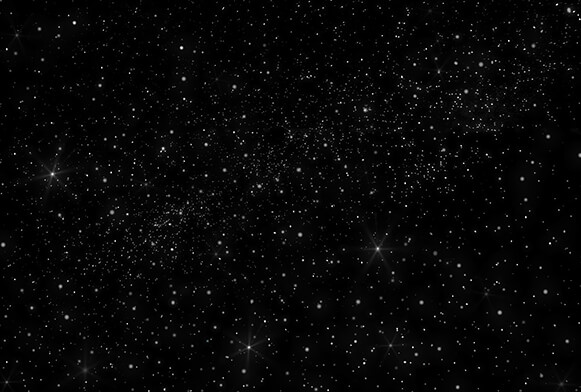
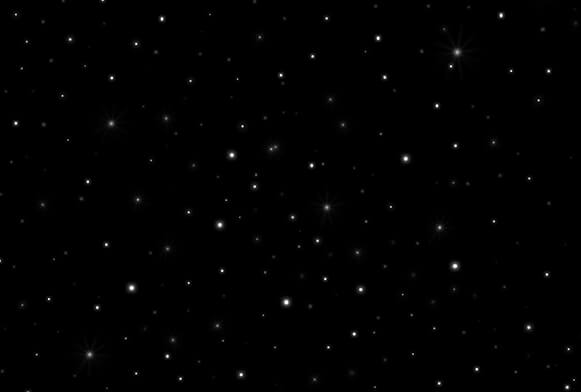
fixed hydration error.

diff --git a/clientProvider/provider.tsx b/clientProvider/provider.tsx
@@ -3,28 +3,23 @@
 import { cn } from "@/lib/utils";
 import { useWeatherBackground } from "@/store/store";
 import Image from "next/image";
-import React, { useEffect, useState } from "react";
+import React from "react";
 
 export default function BackgroundProvider({
   children,
 }: {
-  children: Readonly<React.ReactNode>;
+  children: React.ReactNode;
 }) {
   const { background } = useWeatherBackground();
 
-  const weatherBgConditions = {
-    "bg-gradient-to-tr from-blue-500 to-yellow-500": background.time === "day",
-    "bg-gradient-to-tr from-[#222223] to-[#3D3E40]":
-      background.time === "night",
-  };
-
-  const weather = [
+  const weatherCondition = [
     {
       icon_name: {
         day: "11d",
         night: "11n",
       },
       name: "thunderstorm",
+      image_url: "/thunderstorm.gif",
       icon_url: {
         day: "https://openweathermap.org/img/wn/11d@2x.png",
         night: "https://openweathermap.org/img/wn/11n@2x.png",
@@ -36,6 +31,7 @@ export default function BackgroundProvider({
         night: "09n",
       },
       name: "drizzle",
+      image_url: "/drizzle.gif",
       icon_url: {
         day: "https://openweathermap.org/img/wn/09d@2x.png",
         night: "https://openweathermap.org/img/wn/09n@2x.png",
@@ -47,6 +43,7 @@ export default function BackgroundProvider({
         night: "10n",
       },
       name: "Rain",
+      image_url: "/rainy_1.gif",
       icon_url: {
         day: "https://openweathermap.org/img/wn/10d@2x.png",
         night: "https://openweathermap.org/img/wn/10n@2x.png",
@@ -58,6 +55,7 @@ export default function BackgroundProvider({
         night: "13n",
       },
       name: "Snow",
+      image_url: "/snowfall.gif",
       icon_url: {
         day: "https://openweathermap.org/img/wn/13d@2x.png",
         night: "https://openweathermap.org/img/wn/13n@2x.png",
@@ -68,7 +66,8 @@ export default function BackgroundProvider({
         day: "50d",
         night: "50n",
       },
-      name: "Snow",
+      name: "atmosphere",
+      image_url: "/atmosphere.png",
       icon_url: {
         day: "https://openweathermap.org/img/wn/50d@2x.png",
         night: "https://openweathermap.org/img/wn/50n@2x.png",
@@ -79,7 +78,8 @@ export default function BackgroundProvider({
         day: "01d",
         night: "01n",
       },
-      name: "Snow",
+      name: "clear sky",
+      image_url: "/stars.jpg",
       icon_url: {
         day: "https://openweathermap.org/img/wn/01d@2x.png",
         night: "https://openweathermap.org/img/wn/01n@2x.png",
@@ -91,6 +91,7 @@ export default function BackgroundProvider({
         night: "02n",
       },
       name: "few clouds",
+      image_url: "/few_clouds.jpg",
       icon_url: {
         day: "https://openweathermap.org/img/wn/02d@2x.png",
         night: "https://openweathermap.org/img/wn/02n@2x.png",
@@ -101,7 +102,8 @@ export default function BackgroundProvider({
         day: "03d",
         night: "03n",
       },
-      name: "Scattered clouds",
+      name: "scattered clouds",
+      image_url: "/scattered_clouds.jpg",
       icon_url: {
         day: "https://openweathermap.org/img/wn/03d@2x.png",
         night: "https://openweathermap.org/img/wn/03n@2x.png",
@@ -113,6 +115,7 @@ export default function BackgroundProvider({
         night: "04n",
       },
       name: "broken clouds",
+      image_url: "/broken_clouds.jpg",
       icon_url: {
         day: "https://openweathermap.org/img/wn/04d@2x.png",
         night: "https://openweathermap.org/img/wn/04n@2x.png",
@@ -124,6 +127,7 @@ export default function BackgroundProvider({
         night: "04n",
       },
       name: "overcast clouds",
+      image_url: "",
       icon_url: {
         day: "https://openweathermap.org/img/wn/04d@2x.png",
         night: "https://openweathermap.org/img/wn/04n@2x.png",
@@ -131,38 +135,35 @@ export default function BackgroundProvider({
     },
   ];
 
-  const [bg, setBg] = useState({
-    image: "",
-    bgcolor: "",
-  });
+  const selectedBg = weatherCondition.find(
+    ({ icon_name: { day, night } }) =>
+      background.icon_name === day || background.icon_name === night
+  );
 
-  /** <Image
-        src={"/stars.jpg"}
-        alt="background overlay"
-        className="absolute top-0 object-cover mix-blend-lighten"
-        fill
-      /> */
-
-  console.log("bg", bg);
   console.log("background", background);
+
   return (
     <div
-      className={cn("min-h-screen relative h-full w-full", {
-        "bg-gradient-to-tr from-[#222223] to-[#3D3E40]":
-          background.time === "night",
-        "bg-[#222223]": background.time === "day",
-        "bg-gradient-to-tr from-[#558BEE] to-[#E9F3FB]":
-          background.time === "day",
-      })}
+      className={cn(
+        "min-h-screen  relative h-full w-full bg-blend-soft-light",
+        {
+          "bg-gradient-to-tr from-[#222223] to-[#3D3E40]":
+            background.time === "night",
+          "bg-gradient-to-tr from-[#558BEE] to-[#E9F3FB]":
+            background.time === "day",
+        }
+      )}
     >
+      {/**OVERLAY BACKGROUND */}
       <Image
-        src={"/stars.jpg"}
+        src={selectedBg?.image_url || "/"}
         alt="background overlay"
-        className="absolute top-0 object-cover mix-blend-soft-light"
+        className="absolute z-0 select-none top-0 object-cover mix-blend-soft-light"
         fill
+        unoptimized
       />
-      <p className="text-green-600">Top</p>
-      {children}
+
+      <div className="relative z-10">{children}</div>
     </div>
   );
 }

diff --git a/actions/data.ts b/actions/data.ts
@@ -1,10 +1,8 @@
-"use cache";
+"use server";
 
 import { WeatherData } from "@/types/weather";
-import {
-  unstable_cacheLife as cacheLife,
-  unstable_cacheTag as cacheTag,
-} from "next/cache";
+import axios from "axios";
+import { revalidateTag } from "next/cache";
 
 export async function getMyWeatherData({
   lat,
@@ -16,27 +14,24 @@ export async function getMyWeatherData({
   const current_weather_api = process.env.CURRENT_WEATHER_BASE_URL as string;
   const API_KEY = process.env.API_KEY as string;
 
-  cacheLife("minutes");
-  cacheTag("localweatherdata");
-
   try {
-    const response = await fetch(
+    const response = await axios.get(
       current_weather_api +
         `lat=${lat}&lon=${lon}&appid=${API_KEY}&units=metric`
     );
 
-    if (!response.ok) {
+    if (!response.status) {
       return null;
     }
 
     console.log("RESPONSE FROM SERVER", response);
-    return (await response.json()) || [];
+    return (await response.data) || [];
   } catch (error) {
     console.log(error);
     return null;
   }
 }
 
-export async function getSeachedCityWeatherData(cityname: string) {
-  const geocoding_api = process.env.CURRENT_WEATHER_BASE_URL as string;
+export async function updateWeather() {
+  return revalidateTag("weatherData");
 }

diff --git a/store/store.ts b/store/store.ts
@@ -2,21 +2,40 @@ import { create } from "zustand";
 
 type backgroundStateTypes = {
   background: {
-    desription: string;
+    icon_name: string;
     time: string;
   };
   setBackground: (bg: string, time: string) => void;
 };
 
 const initialValue = {
-  desription: "clear sky",
-  time: "day",
+  icon_name: "",
+  time: "",
 };
 
 export const useWeatherBackground = create<backgroundStateTypes>((set) => {
   return {
     background: initialValue,
     setBackground: (bg, time) =>
-      set({ background: { desription: bg, time: time } }),
+      set({ background: { icon_name: bg, time: time } }),
+  };
+});
+
+type locationStatesType = {
+  location: {
+    latitude: number;
+    longitude: number;
+  };
+  setLocation: (location: { latitude: number; longitude: number }) => void;
+};
+
+const locationInitialValue = {
+  latitude: 0,
+  longitude: 0,
+};
+export const useLocation = create<locationStatesType>((set) => {
+  return {
+    location: locationInitialValue,
+    setLocation: (location) => set({ location }),
   };
 });

diff --git a/app/page.tsx b/app/page.tsx
@@ -1,10 +1,9 @@
-import { getMyWeatherData } from "@/actions/data";
 import MyWeatherInfo from "@/components/weather-mylocation";
 
-export default async function Home() {
+export default async function Page() {
   return (
-    <div className="w-full h-full">
-      <MyWeatherInfo getMyWeatherData={getMyWeatherData} />
+    <div className="w-full h-full py-10">
+      <MyWeatherInfo />
     </div>
   );
 }

diff --git a/components/search-input.tsx b/components/search-input.tsx
@@ -4,7 +4,7 @@ import { Input } from "./ui/input";
 
 export default function SearchInput() {
   return (
-    <div className="mx-auto mt-[25px] flex items-center justify-center">
+    <div className="mx-auto flex items-center justify-center">
       <div className="w-[590px] bg-slate-600 flex items-center h-[50px] relative rounded-full">
         <IoMdSearch
           size={20}
